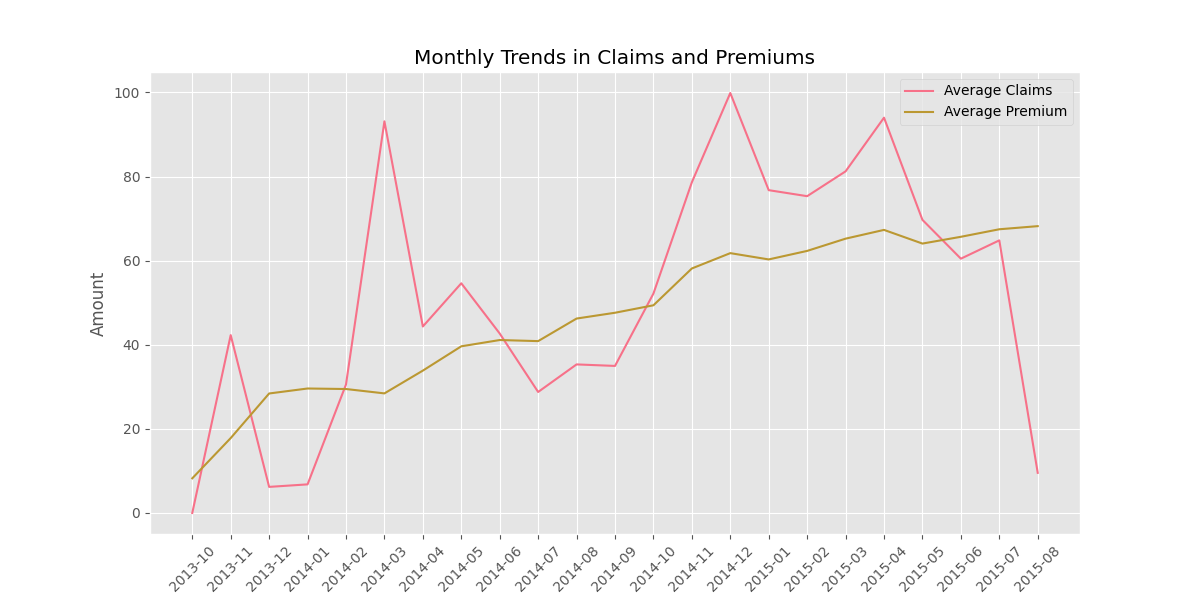
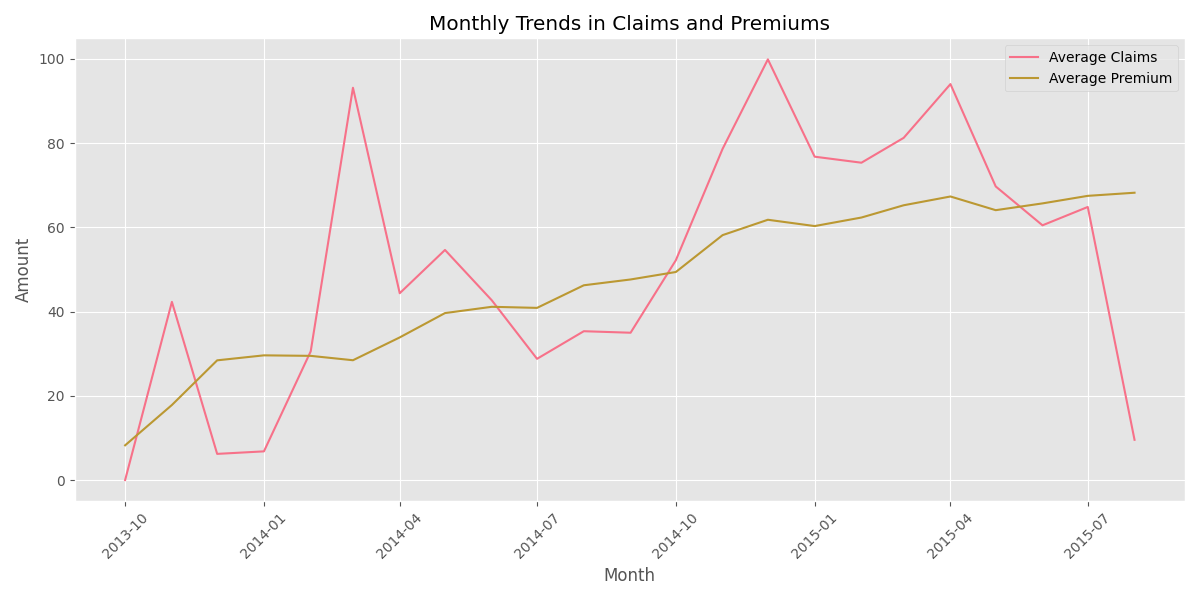
added monthly trends

diff --git a/src/eda_insurance_analysis.py b/src/eda_insurance_analysis.py
@@ -28,7 +28,7 @@ except FileNotFoundError:
     print("Error: 'data/MachineLearningRating_v3.txt' not found.")
     exit(1)
 
-# Sample dataset for visualizations to improve performance
+# Sample dataset for visualizations
 SAMPLE_SIZE = 10000
 if len(df) > SAMPLE_SIZE:
     df_sample = df.sample(n=SAMPLE_SIZE, random_state=42)
@@ -159,13 +159,14 @@ def temporal_trends(df):
             })
             monthly_trends.columns = ['Avg_Claims', 'Claim_Count', 'Avg_Premium']
             plt.figure(figsize=(12, 6))
-            plt.plot(monthly_trends.index.astype(str), monthly_trends['Avg_Claims'], label='Average Claims')
-            plt.plot(monthly_trends.index.astype(str), monthly_trends['Avg_Premium'], label='Average Premium')
+            plt.plot(monthly_trends.index.to_timestamp(), monthly_trends['Avg_Claims'], label='Average Claims')
+            plt.plot(monthly_trends.index.to_timestamp(), monthly_trends['Avg_Premium'], label='Average Premium')
             plt.title('Monthly Trends in Claims and Premiums')
             plt.xlabel('Month')
             plt.ylabel('Amount')
             plt.legend()
             plt.xticks(rotation=45)
+            plt.tight_layout()
             plt.savefig('visualizations/monthly_trends.png')
             plt.close()
         logging.info("Temporal trends analysis completed.")
@@ -215,11 +216,11 @@ def main():
     logging.info("Starting main EDA execution")
     data_summarization(df)
     data_quality_assessment(df)
-    univariate_analysis(df_sample)  # Use sampled data for visualizations
-    bivariate_analysis(df_sample)   # Use sampled data
-    temporal_trends(df)             # Use full data for trends
-    outlier_detection(df_sample)    # Use sampled data
-    vehicle_analysis(df_sample)     # Use sampled data
+    univariate_analysis(df_sample)
+    bivariate_analysis(df_sample)
+    temporal_trends(df)
+    outlier_detection(df_sample)
+    vehicle_analysis(df_sample)
     print("EDA completed. Visualizations saved in visualizations/ folder.")
     logging.info("EDA completed successfully")
 
